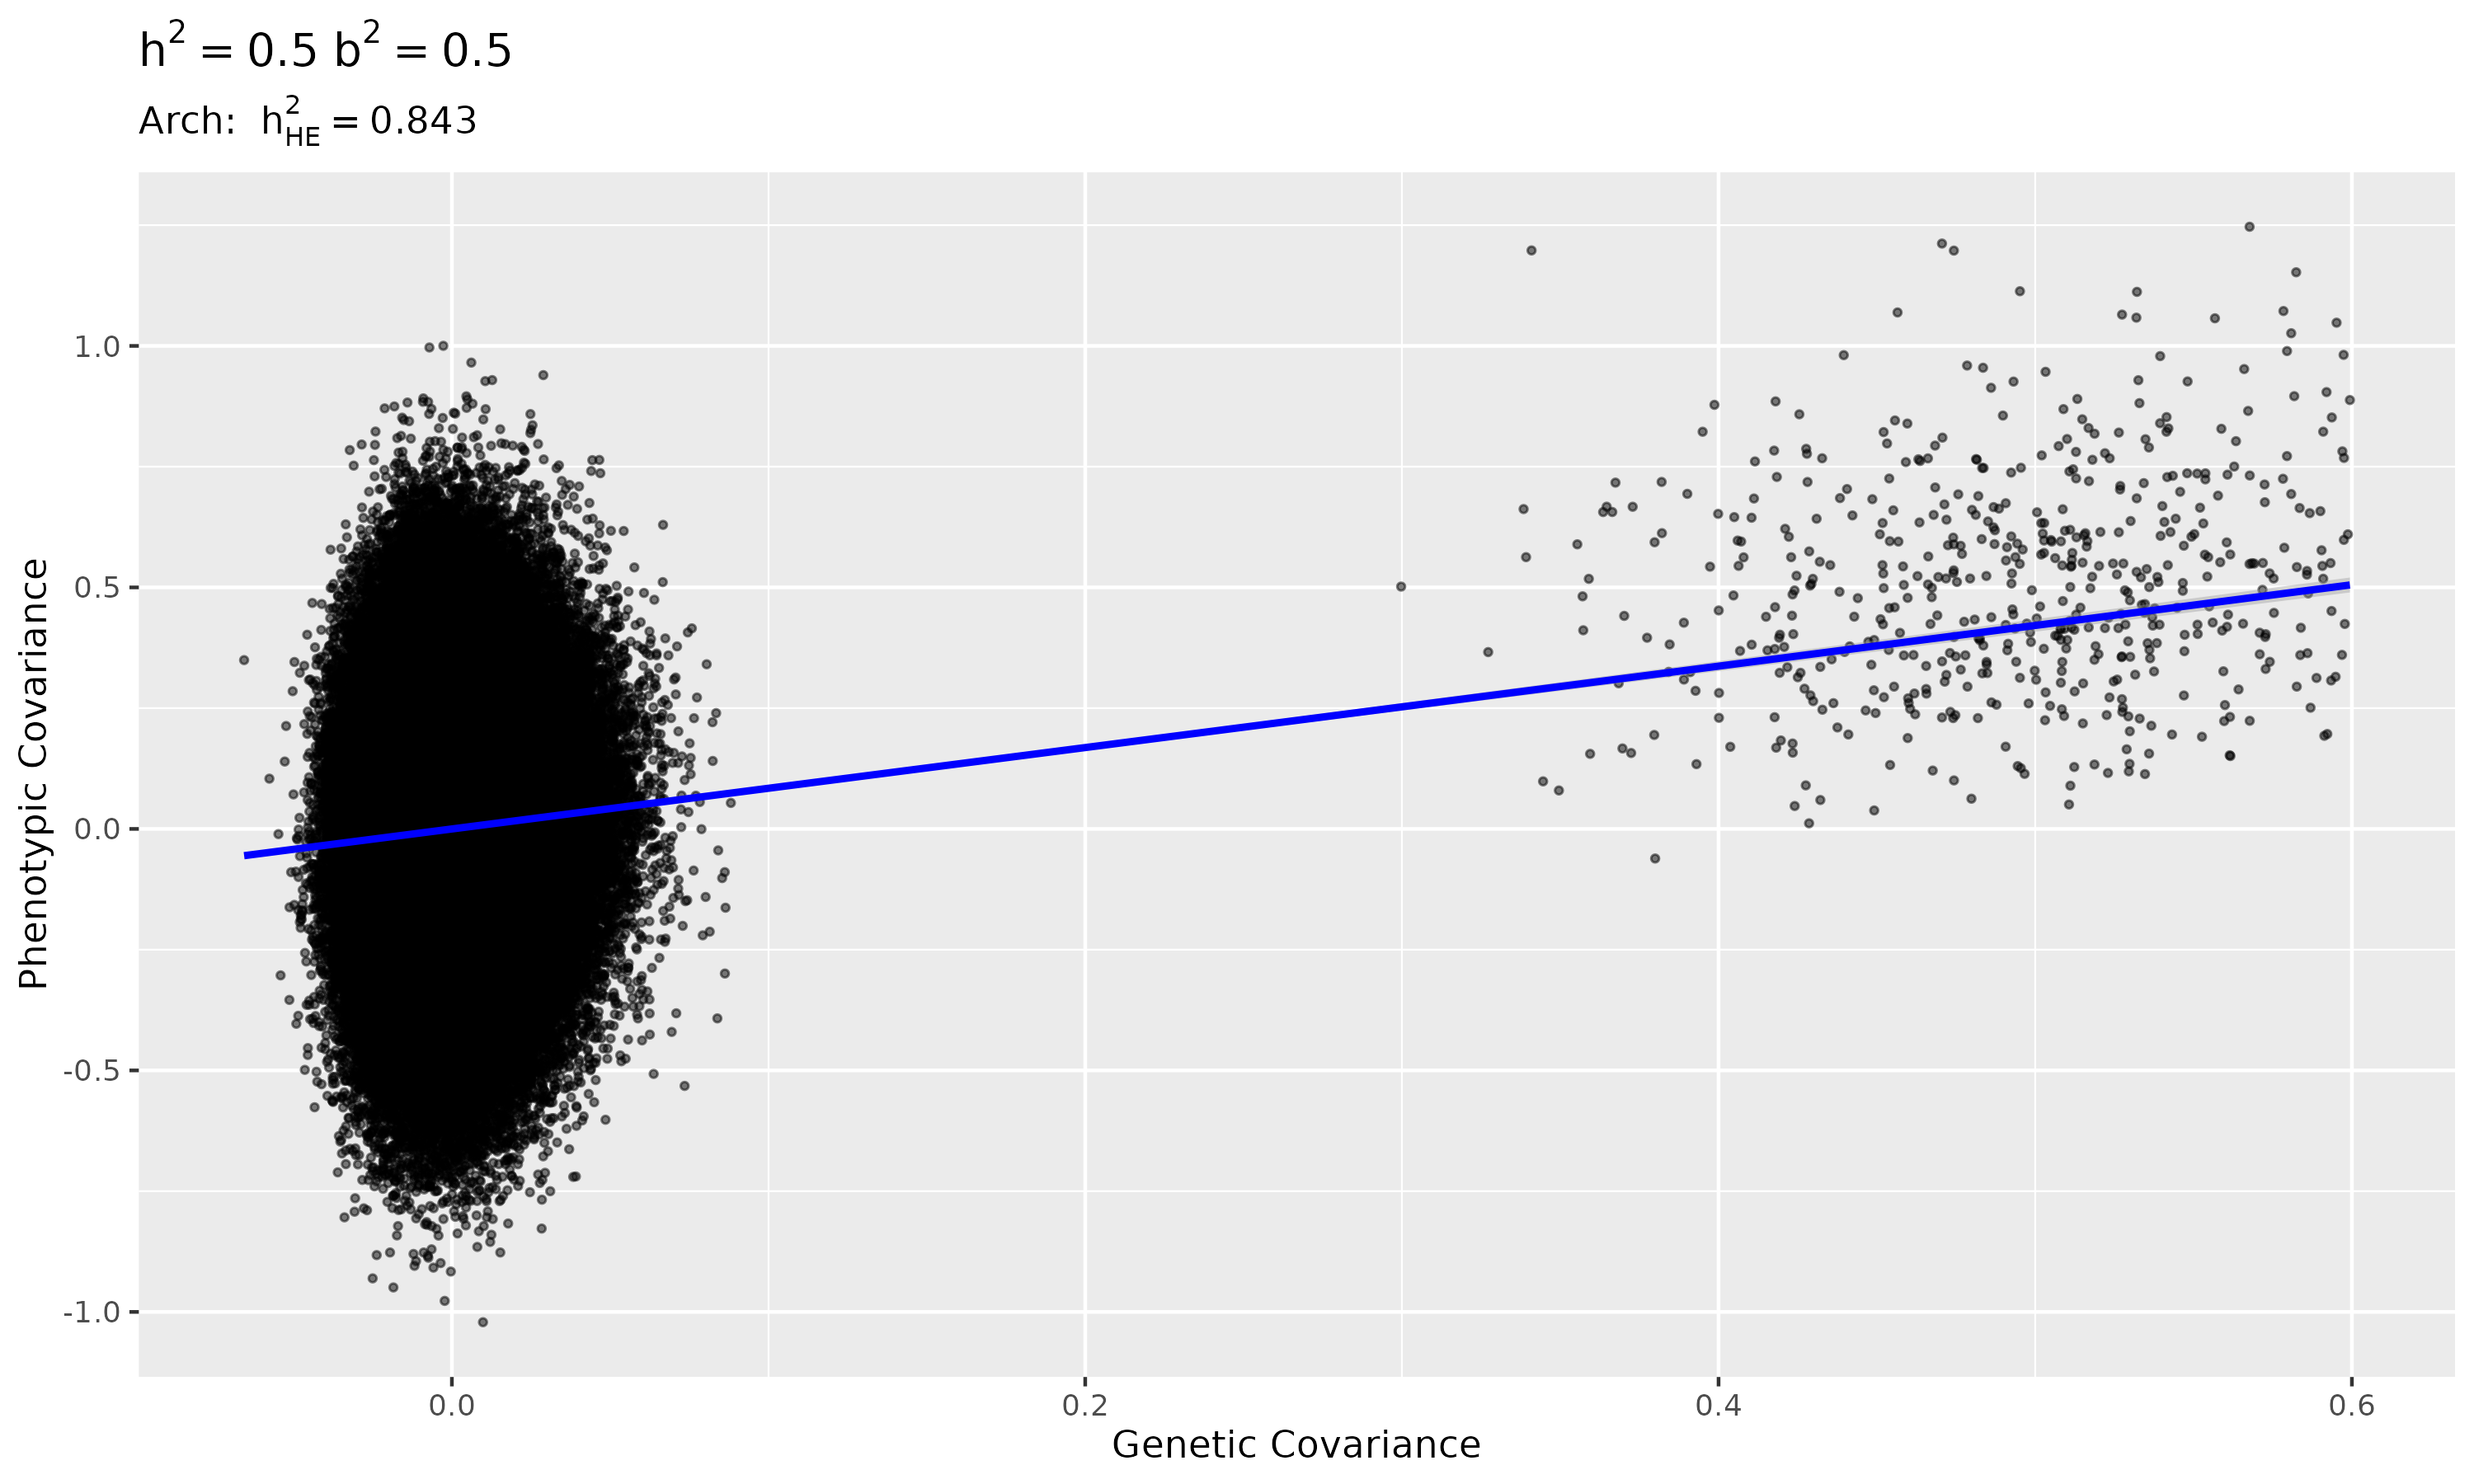
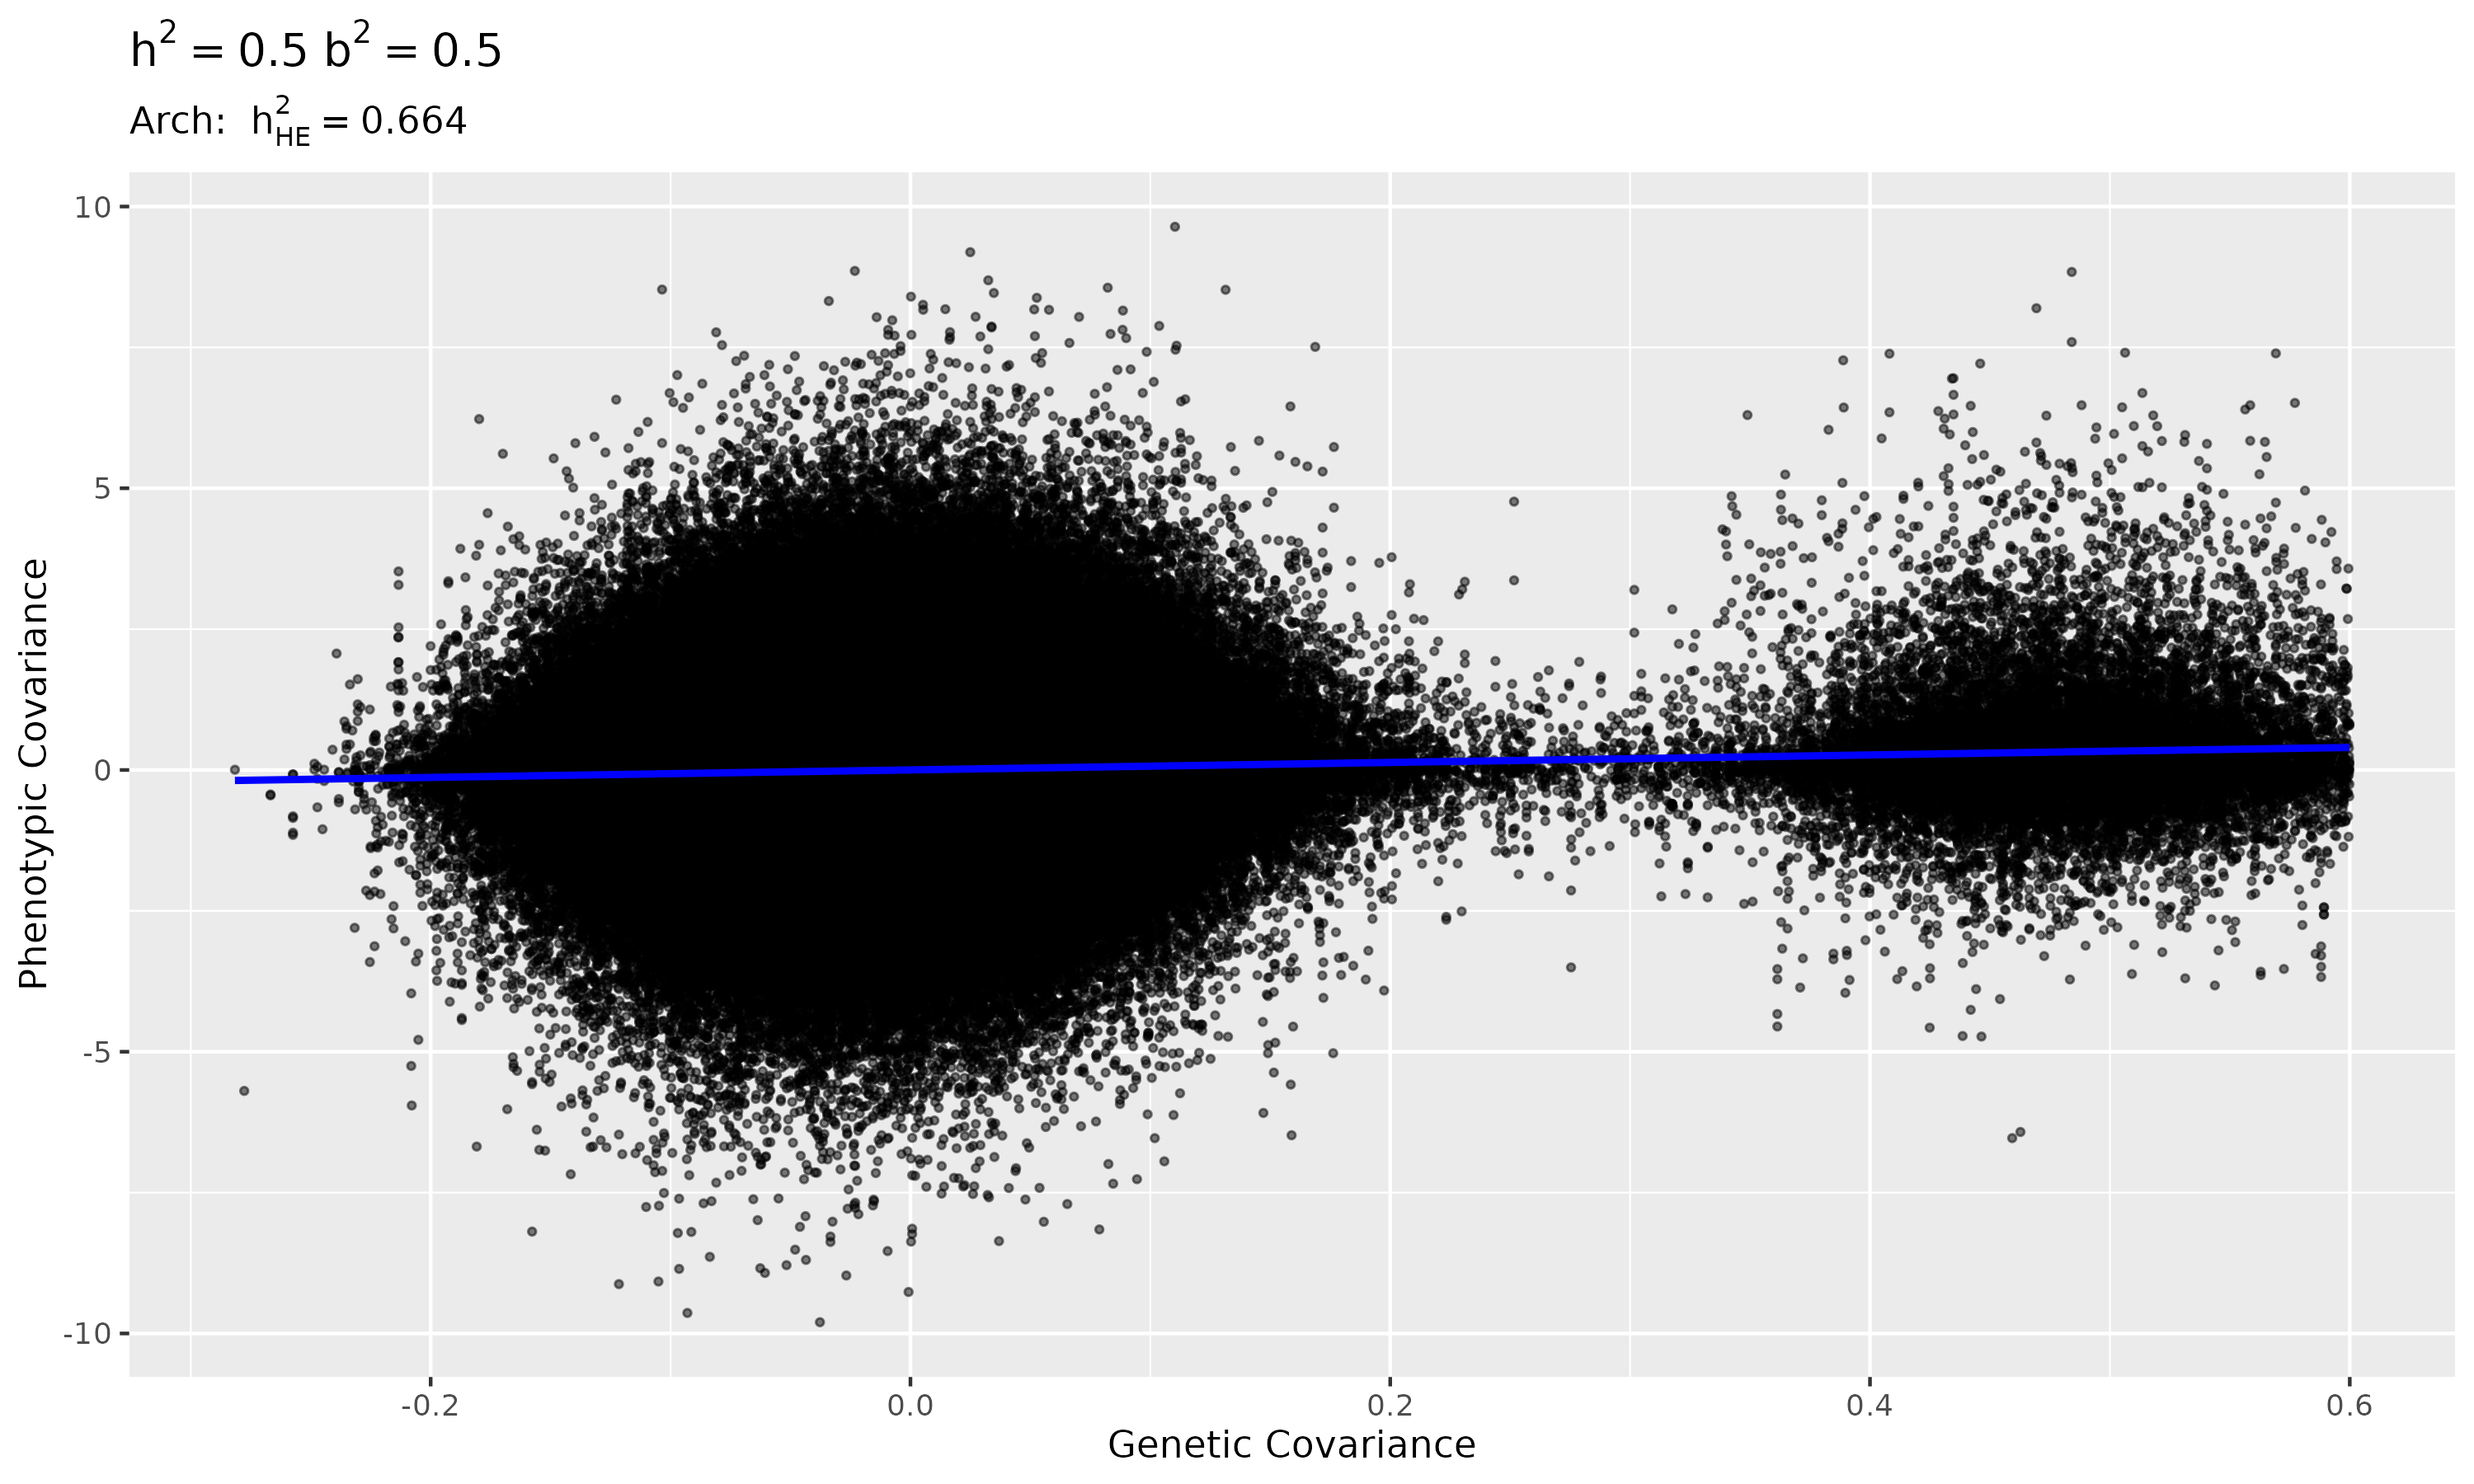
YEAH FIXED MATING LFGGGG. thank u marida

diff --git a/scripts/sim_vct.py b/scripts/sim_vct.py
@@ -12,6 +12,9 @@ import datetime
 import xftsim as xft
 from xftsim.reproduce import RecombinationMap
 from xftsim.sim import Simulation # import as own object
+from xftsim.utils import ConstantCount, PoissonCount
+from xftsim.mate import LinearAssortativeMatingRegime
+import xarray as xr # for haplotype arrays
 
 import numpy as np
 import pandas as pd
@@ -141,6 +144,96 @@ def vct_architecture(founder_haplotypes, h2, b2, parental_coeff = 1/2, n=1000, n
     print("Done making architecture.")
     return([arch,causal_sites])
 
+class my_RandomMatingRegime(xft.mate.MatingRegime):
+    """
+    SOURCE: Marida, glitch-matrix/workflow/scripts/simulation_utils.py
+    A mating regime that randomly pairs individuals and produces offspring with balanced numbers of males and females.
+
+    Parameters
+    ----------
+    offspring_per_pair : xft.utils.VariableCount, optional
+        Number of offspring produced per mating pair, by default xft.utils.ConstantCount(1)
+    mates_per_female : xft.utils.VariableCount, optional
+        Number of males that mate with each female, by default xft.utils.ConstantCount(1)
+    female_offspring_per_pair : Union[str, xft.utils.VariableCount], optional
+        The number of female offspring per mating pair. If "balanced", the number is balanced with
+        the number of male offspring. By default, "balanced".
+    sex_aware : bool, optional
+        If True, randomly paired individuals are selected so that there is an equal number of males and females.
+        Otherwise, random pairing is performed. By default, False.
+    exhaustive : bool, optional
+        If True, perform exhaustive enumeration of potential mates. If False, perform random sampling. By default, True.
+    """
+    def __init__(self,
+                 offspring_per_pair: xft.utils.VariableCount = xft.utils.ConstantCount(1),
+                 mates_per_female: xft.utils.VariableCount =  xft.utils.ConstantCount(2),
+                 female_offspring_per_pair: xft.mate.Union[str, xft.utils.VariableCount] = 'balanced', ## doesn't make total sense
+                 sex_aware: bool = False,
+                 exhaustive: bool = True,
+                 ):
+        super().__init__(self,
+                         offspring_per_pair=offspring_per_pair,
+                         mates_per_female=mates_per_female,
+                         female_offspring_per_pair=female_offspring_per_pair,
+                         sex_aware=sex_aware,
+                         exhaustive=exhaustive,
+                         component_index = None,
+                         haplotypes = False,
+                         )
+
+
+    def mate(self,
+             haplotypes: xr.DataArray = None,
+             phenotypes: xr.DataArray = None,
+             control: dict = None,
+             ):
+        """
+        Mate individuals randomly with balanced numbers of males and females.
+
+        Parameters
+        ----------
+        haplotypes : xr.DataArray, optional
+            Array containing haplotypes, by default None
+        phenotypes : xr.DataArray, optional
+            Array containing phenotypes, by default None
+        control : dict, optional
+            Control dictionary, by default None
+
+        Returns
+        -------
+        MateAssignment
+            An object containing the maternal and paternal sample indices, the number of offspring per pair,
+            and the number of female offspring per pair.
+        """
+        self._sample_indexer = haplotypes.xft.get_sample_indexer()
+
+        if self.sex_aware:
+            female_indices = haplotypes.sample[haplotypes.sex == 0]
+            male_indices = haplotypes.sample[haplotypes.sex == 1]
+            if len(female_indices) != len(male_indices):
+                print("Warning: unequal sex ratio.")
+        else:
+            female_indices, male_indices = self.get_potential_mates(haplotypes, phenotypes)
+
+
+        female_indices = np.random.permutation(female_indices)
+        male_indices = np.random.permutation(male_indices)
+        if len(female_indices)!= len(male_indices):
+            # resample the smallest to get equal numbers
+            if len(female_indices) < len(male_indices):
+                # resample
+                female_indices = np.random.choice(female_indices,len(male_indices),replace=True)
+            else:
+                male_indices = np.random.choice(male_indices, len(female_indices), replace=True)
+            print(f"Size of m/f mating pool: {len(male_indices)} {len(female_indices)}.")
+
+
+        return self.enumerate_assignment(female_indices=female_indices,
+                                         male_indices=male_indices,
+                                         haplotypes=haplotypes,
+                                         phenotypes=phenotypes,
+                                         )
+
 def compute_pheno_covariances(
     simulation,
 ) -> pd.DataFrame:
@@ -201,11 +294,12 @@ arch, _ = vct_architecture(
     w=0,
 )
 
-mating_regime = xft.mate.RandomMatingRegime(offspring_per_pair = xft.utils.ConstantCount(2),
-                                mates_per_female = xft.utils.ConstantCount(1),
-                                female_offspring_per_pair = 'balanced',
-                                sex_aware = False,
-                                exhaustive = True)
+mating_regime = my_RandomMatingRegime(
+    mates_per_female=1,
+    offspring_per_pair= PoissonCount(2),
+    sex_aware=True,
+    female_offspring_per_pair = 'balanced'
+)
 
 post_processors = [xft.proc.LimitMemory(n_haplotype_generations=1)]
 sim = xft.sim.Simulation(
